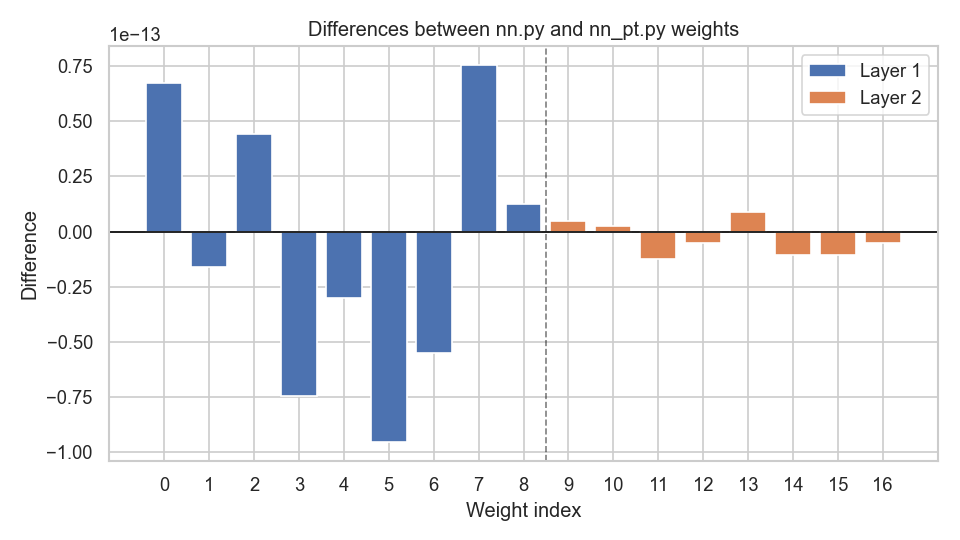
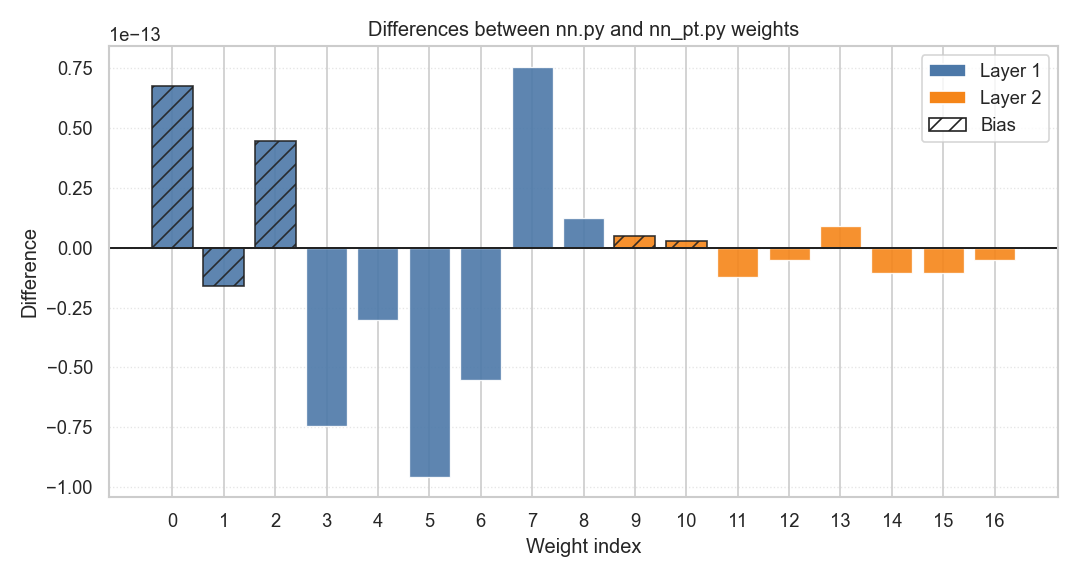
Enhance weight difference visualization and dataset selection in comparison script

diff --git a/Assignment4/compare_nn.py b/Assignment4/compare_nn.py
@@ -2,12 +2,14 @@ import numpy as np
 import time
 import matplotlib.pyplot as plt
 import seaborn as sns
+from matplotlib.patches import Patch
 
 import nn
 import nn_pt
 
 # --- Setup ---
 
+DATASET_NAME = "doughnut.tab"
 UNITS = [3]
 N_EPOCHS = 5000
 SEED = 42
@@ -99,24 +101,42 @@ def compare_weights(X, y):
     print(f"  Pearson correlation:            {np.corrcoef(flat_np, flat_pt)[0, 1]:.6f}")
 
     layer_diffs = [(W_np - W_pt).flatten() for W_np, W_pt in zip(weights_np, weights_pt)]
-    colors = sns.color_palette("deep", n_colors=len(layer_diffs))
+    layer_colors = ["#4C78A8", "#F58518", "#54A24B", "#E45756"]
 
-    plt.figure(figsize=(8, 4.5))
+    plt.figure(figsize=(9, 4.8))
 
     start = 0
-    for layer_index, (layer_diff, color) in enumerate(zip(layer_diffs, colors), start=1):
+    legend_handles = []
+    for layer_index, (W_np, W_pt, layer_diff, layer_color) in enumerate(
+            zip(weights_np, weights_pt, layer_diffs, layer_colors), start=1):
+        bias_count = W_np.shape[1]
         x_positions = np.arange(start, start + len(layer_diff))
-        plt.bar(x_positions, layer_diff, color=color, width=0.8, label=f"Layer {layer_index}")
+        bars = plt.bar(
+            x_positions,
+            layer_diff,
+            color=layer_color,
+            width=0.8,
+            edgecolor="white",
+            linewidth=0.8,
+            alpha=0.9,
+        )
+
+        for bias_bar in bars[:bias_count]:
+            bias_bar.set_hatch("//")
+            bias_bar.set_edgecolor("#222222")
+            bias_bar.set_linewidth(1.0)
+
+        legend_handles.append(Patch(facecolor=layer_color, edgecolor="white", label=f"Layer {layer_index}"))
         start += len(layer_diff)
-        if layer_index < len(layer_diffs):
-            plt.axvline(start - 0.5, color="black", linestyle="--", linewidth=1, alpha=0.5)
 
     plt.xlabel("Weight index")
     plt.ylabel("Difference")
     plt.xticks(np.arange(len(flat_np)), [str(i) for i in range(len(flat_np))])
-    plt.axhline(0, color="black", linewidth=1)
+    plt.axhline(0, color="#222222", linewidth=1.2)
+    plt.grid(axis="y", linestyle=":", linewidth=0.8, alpha=0.5)
     plt.title("Differences between nn.py and nn_pt.py weights")
-    plt.legend()
+    legend_handles.append(Patch(facecolor="white", edgecolor="#222222", hatch="//", label="Bias"))
+    plt.legend(handles=legend_handles, frameon=True)
     plt.tight_layout()
     plt.savefig("nn_weight_differences.png", dpi=120)
     plt.close()
@@ -171,7 +191,13 @@ def compare_timing(X, y):
 
 
 if __name__ == "__main__":
-    X, y = nn.doughnut()
+    if DATASET_NAME == "doughnut.tab":
+        X, y = nn.doughnut()
+    elif DATASET_NAME == "squares.tab":
+        X, y = nn.squares()
+    else:
+        raise ValueError(f"Unsupported dataset: {DATASET_NAME}")
+
     compare_probabilities(X, y)
     compare_loss_curves(X, y)
     compare_weights(X, y)
